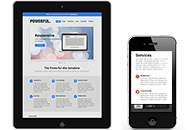
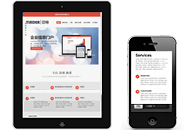
TinderPortal_0.0.1_N
1.完成了幻灯片播放的图片选择

Changed region(s): [[0.1053, 0.0923, 0.5526, 0.8]]

diff --git a/TinderPortal/index.html b/TinderPortal/index.html
@@ -94,22 +94,24 @@
 
               </div>
 
-          <div class="ls-layer" rel="slidedelay: 3000;">
-            <img class="ls-bg" src="img/temp/slide_2.jpg" alt="layer" />
-            <div class="ls-s3 text-box" rel="slidedirection: top; durationin: 1500;  delayin: 500; delayout: 50" style="left: 50px; top: 70px">
-              <h2><font face="微软雅黑">企业信息门户</font></h2>
-              <p>企业信息门户)：提供统一的信息访问渠道、不间断的服务、强大的内容管理能力、可扩展的集成模块</p>
-            </div>
+       
 
+		<div class="ls-layer" rel="slidedelay: 3000;">
+            <img class="ls-bg" src="img/temp/portalbackground.jpg" alt="layer" />
+           <div class="ls-s3 text-box" rel="slidedirection: top; durationin: 1500;  delayin: 500; delayout: 50" style="left: 50px; top: 70px">
+              <h2><font face="微软雅黑">企业信息门户</font></h2>
+              <p>企业信息门户：提供统一的信息访问渠道、不间断的服务、强大的内容管理能力、可扩展的集成模块</p>
+            </div>
             <a href="http://themeforest.net/item/powerful-responsive-retinaready-html5-template/2942533" class="button branded small ls-s3" style="left: 50px; top: 200px" rel="slidedirection: left; durationin: 500; delayin: 1500; delayout: 50">了解详情 »</a>
 
-            <img class="ls-s3" src="img/temp/slide_2_1.png" alt="sublayer" style="width: 40%; left:70%; top: 50%;" rel="slidedirection: bottom; durationin: 1000; easingin: easeOutExpo; delayin: 1500; delayout: 50" />
+            <img class="ls-s3" src="img/temp/cpt.png" alt="sublayer" style="width: 50%; left:70%; top: 50%;" rel="slidedirection: bottom; durationin: 1000; easingin: easeOutExpo; delayin: 1500; delayout: 50" />
+
+            <img class="ls-s3" src="img/temp/slide_1_2.png" alt="sublayer" style="left:80%; top: 66%;" rel="slidedirection: bottom; durationin: 1600; easingin: easeOutExpo; delayin: 1500; delayout: 50" />
           </div>
-
-
+		  
           <div class="ls-layer" rel="slidedelay: 3000;">
-            <img class="ls-bg" src="img/temp/slide_3.jpg" alt="layer" />
-            <div class="ls-s3 text-box white" rel="slidedirection: top; durationin: 1500;  delayin: 500; delayout: 50" style="left: 50px; top: 70px">
+            <img class="ls-bg" src="img/temp/app.jpg" alt="layer" />
+            <div class="ls-s3 text-box" rel="slidedirection: top; durationin: 1500;  delayin: 500; delayout: 50" style="left: 50px; top: 70px">
               <h2><font face="微软雅黑">App企业定制</font></h2>
               <p>跨平台、跨功能、全方位企业App定制，玩转移动互联时代</p>
             </div>
@@ -117,7 +119,7 @@
             <a href="http://themeforest.net/item/powerful-responsive-retinaready-html5-template/2942533" class="button branded small ls-s3" style="left: 50px; top: 200px" rel="slidedirection: left; durationin: 500; delayin: 1500; delayout: 50">了解详情 »</a>
 
             <p class="ls-s3" src="img/temp/slider_small.png" alt="sublayer" style="width: 50%; left:90%; top: 50%;" rel="slidedirection: bottom; durationin: 1000; easingin: easeOutExpo; delayin: 1500; delayout: 50">
-              <i class="icon-hand-left" style="color: #fff; font-size: 160px;"></i>
+             
             </p>
 
           </div>
